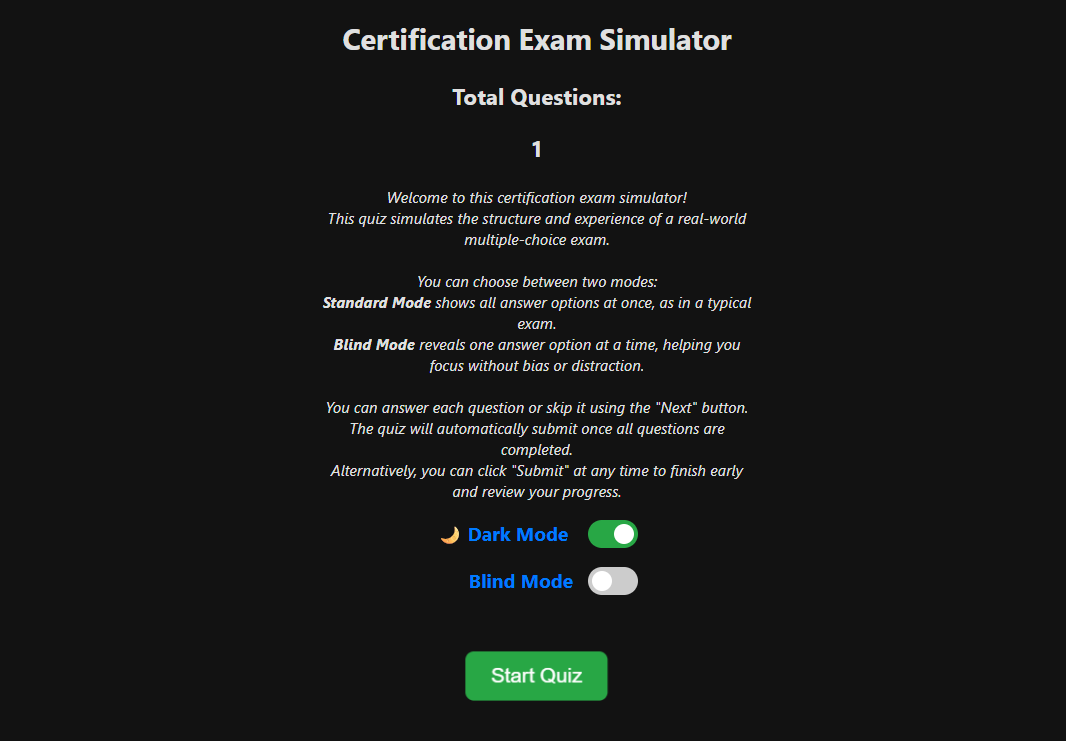
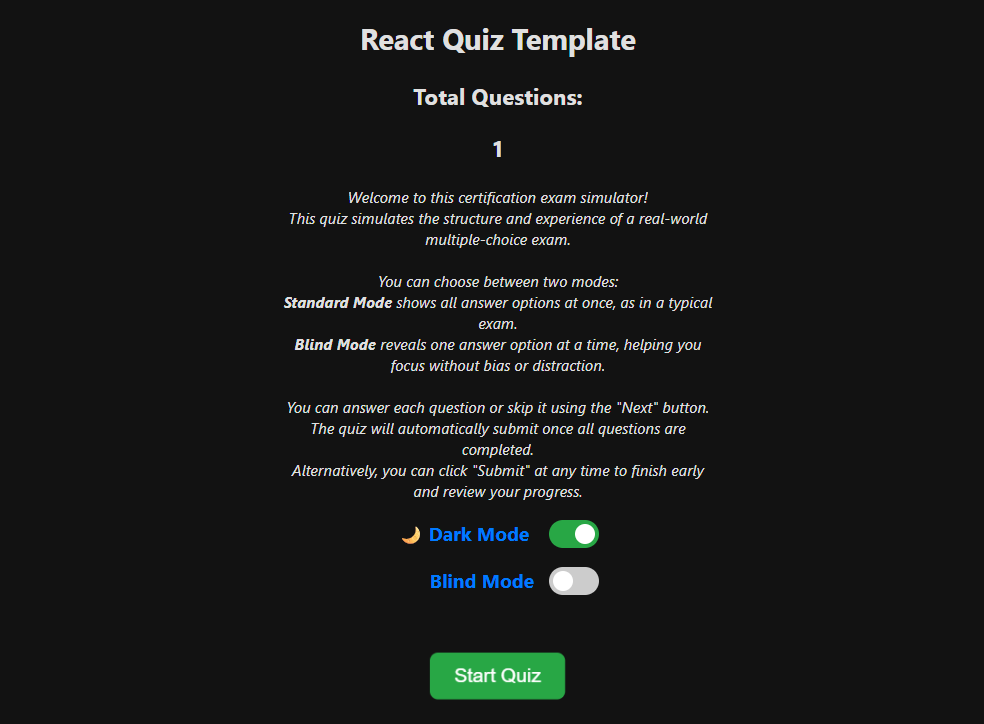
fix

diff --git a/src/components/Landing/Landing.js b/src/components/Landing/Landing.js
@@ -12,7 +12,7 @@ const Landing = ({ onStart }) => {
 
 	return (
 		<div className='landing-container'>
-			<h2>Certification Exam Simulator</h2>
+			<h2>React Quiz Template</h2>
 			<h3 id='total-label'>Total Questions: </h3>
 			<h3 id='total-questions'>{questions.length}</h3>
 			<p className='description'>

diff --git a/public/index.html b/public/index.html
@@ -22,7 +22,7 @@
       work correctly both with client-side routing and a non-root public URL.
       Learn how to configure a non-root public URL by running `npm run build`.
     -->
-	<title>Certification Exam Simulator</title>
+	<title>React Quiz Template</title>
 </head>
 
 <body>
